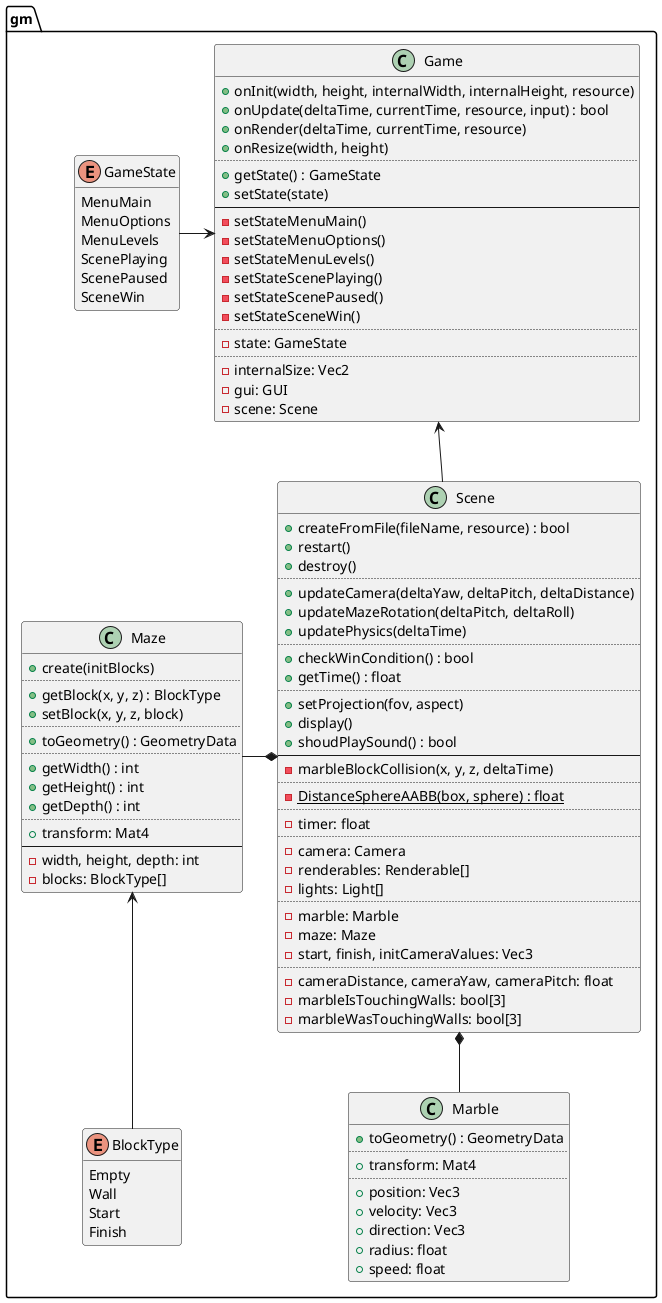
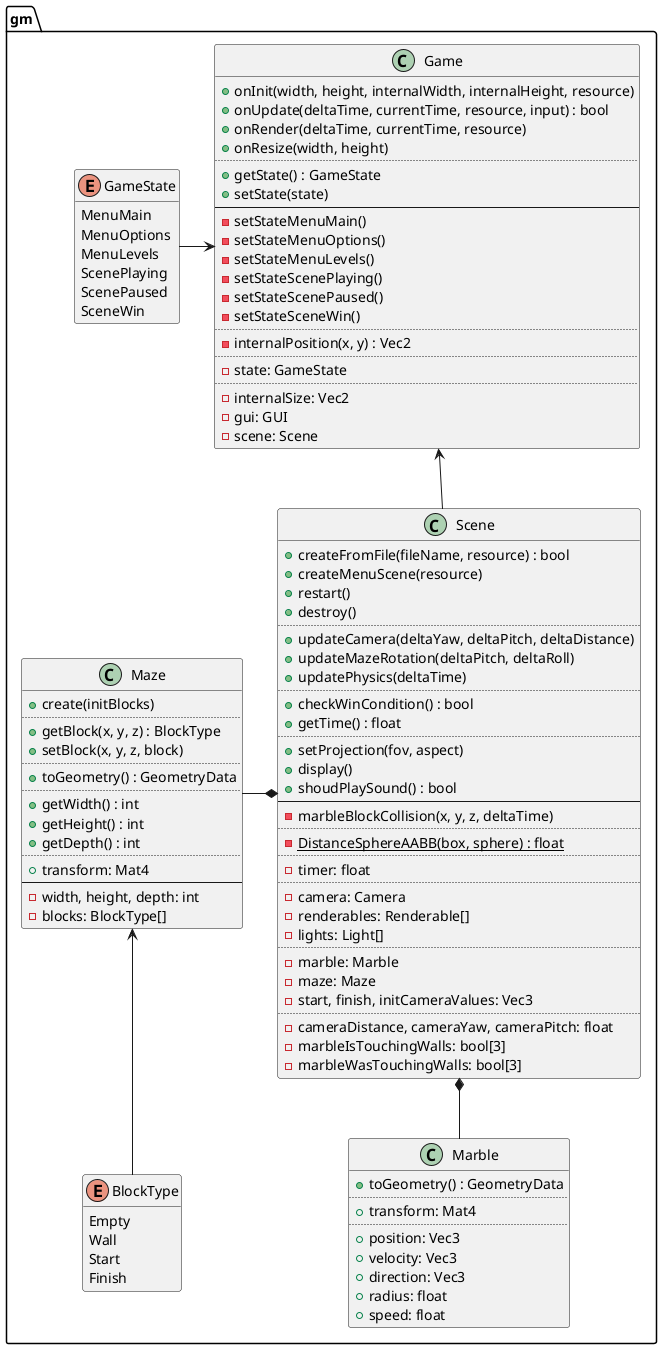
Added Renderable:tag, Scene::createMenuScene, Game::internalPosition

diff --git a/src/gm/scene.cpp b/src/gm/scene.cpp
@@ -166,15 +166,84 @@ bool Scene::createFromFile(std::string_view fileName, rs::ResourceManager& resou
 	skyboxMesh.addGeometry(skybox);
 
 	renderables.push_back(rn::Renderable());
-	renderables[0].create(mazeMesh, resource.getMaterial(mazeMaterialName));
+	renderables[0].create(mazeMesh, resource.getMaterial(mazeMaterialName), "maze");
 	renderables.push_back(rn::Renderable());
-	renderables[1].create(marbleMesh, resource.getMaterial(marbleMaterialName));
+	renderables[1].create(marbleMesh, resource.getMaterial(marbleMaterialName), "marble");
 	renderables.push_back(rn::Renderable());
-	renderables[2].create(finishMesh, resource.getMaterial(finishMaterialName));
+	renderables[2].create(finishMesh, resource.getMaterial(finishMaterialName), "finish");
 	renderables.push_back(rn::Renderable());
-	renderables[3].create(skyboxMesh, resource.getMaterial(skyboxMaterialName));
+	renderables[3].create(skyboxMesh, resource.getMaterial(skyboxMaterialName), "skybox");
 
 	return true;
+}
+
+void Scene::createMenuScene(rs::ResourceManager& resource) {
+	std::string mazeMaterialName = "copperTextured";
+	std::string marbleMaterialName = "emerald";
+	std::string skyboxMaterialName = "sky";
+	size_t mazeWidth = 7, mazeDepth = 7, mazeHeight = 2;
+	BlockVector3D initBlocks = {
+		{
+			"WWW.WWW",
+			"W.....W",
+			"WWWWW.W",
+			"W.....W",
+			"W.WW..W",
+			"...W..W",
+			"WWWWWWW",
+		}, {
+			"WWWWWWW",
+			"WWWWWWW",
+			"WWWWWWW",
+			"WWWWWWW",
+			"WWWWWWW",
+			"WWWWWWW",
+			"WWWWWWW",
+		}
+	};
+
+	light = {
+		{1.0f, 9.9f, 1.0f},
+		{0.3f, 0.3f, 0.3f},
+		{1.0f, 1.0f, 1.0f},
+		{0.5f, 0.5f, 0.5f},
+	};
+	cameraYaw = la::Pi / 2;
+	cameraPitch = la::Pi / 4;
+	cameraDistance = 8;
+
+	maze.create(initBlocks);
+	marble.position = {3, 1, 3};
+
+	la::Vec3 cameraTarget = {
+		(int)(maze.getWidth() / 2) * 1.0f,
+		(int)(maze.getHeight() / 2) * 1.0f,
+		(int)(maze.getDepth() / 2) * 1.0f,
+	};
+	camera.setTarget(cameraTarget);
+	initCameraValues = {cameraDistance, cameraYaw, cameraPitch};
+
+	rs::Mesh& mazeMesh = resource.createMesh("maze", 36 * mazeWidth * mazeHeight * mazeDepth);
+	mazeMesh.addGeometry(maze.toGeometry());
+
+	rs::Mesh& marbleMesh = resource.createMesh("marble", 960);
+	marbleMesh.addGeometry(marble.toGeometry());
+
+	ge::GeometryData skybox = ge::GeometryGenerator::GenerateCube();
+	ge::GeometryTransform::Scale(skybox, {1000, 1000, 1000});
+	ge::GeometryTransform::Translate(skybox, cameraTarget);
+	rs::Mesh& skyboxMesh = resource.createMesh("sky", 36);
+	skyboxMesh.addGeometry(skybox);
+
+	renderables.push_back(rn::Renderable());
+	renderables[0].create(mazeMesh, resource.getMaterial(mazeMaterialName), "maze");
+	renderables.push_back(rn::Renderable());
+	renderables[1].create(marbleMesh, resource.getMaterial(marbleMaterialName), "marble");
+	renderables.push_back(rn::Renderable());
+	renderables[2].create(skyboxMesh, resource.getMaterial(skyboxMaterialName), "skybox");
+
+	updateCamera();
+	updateMazeRotation(0, 0);
 }
 
 void Scene::restart() {
@@ -311,10 +380,21 @@ void Scene::setProjection(float fov, float ratio) {
 }
 
 void Scene::display() {
-	la::Mat4 mazeTr = renderables[0].transform;
-	renderables[1].transform = mazeTr * la::Mat4::Translate(marble.position);
-	renderables[2].transform = mazeTr;
-
+	la::Mat4 mazeTr = la::Mat4::Identity();
+	for (auto& r : renderables) {
+		if (r.tag == "maze") {
+			mazeTr = r.transform;
+			break;
+		}
+	}
+	for (auto& r : renderables) {
+		if (r.tag == "marble") {
+			r.transform = mazeTr * la::Mat4::Translate(marble.position);
+		}
+		else if (r.tag == "finish") {
+			r.transform = mazeTr;
+		}
+	}
 	rn::Renderer::render(camera, renderables, light);
 }
 

diff --git a/src/gm/game.cpp b/src/gm/game.cpp
@@ -15,6 +15,9 @@ void Game::onInit(int width, int height, float internalWidth, float internalHeig
 	gui.create(resource.getShader("text"), resource.getFont("noto48"), resource.createMesh("gui", 600));
 	gui.setFrame(0, width, 0, height);
 
+	scene.createMenuScene(resource);
+	scene.setProjection(72 * la::DegToRad, frameSize.x / frameSize.y);
+
 	setStateMenuMain();
 }
 
@@ -25,9 +28,7 @@ void Game::onResize(int width, int height) {
 	float ox = (internalSize.x - width * internalSize.y / height) / 2;
 	gui.setFrame(ox, internalSize.x - ox, 0, internalSize.y);
 
-	if (state & InScene) {
-		scene.setProjection(72 * la::DegToRad, frameSize.x / frameSize.y);
-	}
+	scene.setProjection(72 * la::DegToRad, frameSize.x / frameSize.y);
 }
 
 bool Game::onUpdate(float deltaTime, float currentTime, rs::ResourceManager& resource, const in::Input& input) {
@@ -36,11 +37,14 @@ bool Game::onUpdate(float deltaTime, float currentTime, rs::ResourceManager& res
 	}
 
 	if (state == MenuMain) {
-		gui.checkButton("title", input.getMouseX(), input.getMouseY());
+		la::Vec2 scaledMouse = internalPosition(input.getMouseX(), input.getMouseY());
+		gui.checkButton("title", scaledMouse.x, scaledMouse.y);
+		scene.updateCamera(deltaTime / 4, 0, 0);
 
 		if (input.getKey(in::MenuSelect) != in::JustPressed) {
 			return true;
 		}
+		scene.destroy();
 		if (scene.createFromFile(_RES_PATH "testLevel.txt", resource) == true) {
 			scene.setProjection(72 * la::DegToRad, frameSize.x / frameSize.y);
 			setState(ScenePlaying);
@@ -118,9 +122,7 @@ void Game::onRender(float deltaTime, float currentTime, rs::ResourceManager& res
 		rn::Renderer::clear(0.0f, 0.0f, 0.0f);
 	}
 
-	if (state & InScene) {
-		scene.display();
-	}
+	scene.display();
 	gui.display();
 }
 
@@ -196,4 +198,9 @@ void Game::setStateSceneWin() {
 	gui.addLabel("play", 48, "Press P to play again", {320, 440});
 
 	scene.restart();
+}
+
+la::Vec2 Game::internalPosition(float x, float y) {
+	float ox = (frameSize.x - internalSize.x / internalSize.y * frameSize.y) / 2;
+	return {x / frameSize.y * internalSize.y - ox, y / frameSize.y * internalSize.y};
 }

diff --git a/src/rn/renderable.cpp b/src/rn/renderable.cpp
@@ -3,9 +3,10 @@
 using namespace rn;
 using namespace rs;
 
-Renderable::Renderable() : mesh(nullptr), material(nullptr), transform(la::Mat4::Identity()) {}
+Renderable::Renderable() : tag(""), mesh(nullptr), material(nullptr), transform(la::Mat4::Identity()) {}
 
-void Renderable::create(Mesh& mesh, Material& material) {
+void Renderable::create(Mesh& mesh, Material& material, const std::string tag) {
+	this->tag = tag;
 	this->mesh = &mesh;
 	this->material = &material;
 }

diff --git a/src/rn/renderable.hpp b/src/rn/renderable.hpp
@@ -10,8 +10,9 @@ namespace rn {
 	public:
 		Renderable();
 
-		void create(rs::Mesh& mesh, rs::Material& material);
+		void create(rs::Mesh& mesh, rs::Material& material, const std::string tag);
 
+		std::string tag;
 		rs::Mesh* mesh;
 		rs::Material* material;
 		la::Mat4 transform;

diff --git a/src/gm/scene.hpp b/src/gm/scene.hpp
@@ -14,9 +14,11 @@ namespace gm {
 	class Scene {
 
 	public:
+
 		Scene();
 
 		bool createFromFile(std::string_view fileName, rs::ResourceManager& resource);
+		void createMenuScene(rs::ResourceManager& resource);
 		void restart();
 		void destroy();
 

diff --git a/src/gm/game.hpp b/src/gm/game.hpp
@@ -38,6 +38,8 @@ namespace gm {
 		void setStateScenePaused();
 		void setStateSceneWin();
 
+		la::Vec2 internalPosition(float x, float y);
+
 		GameState state;
 
 		la::Vec2 frameSize, internalSize;
